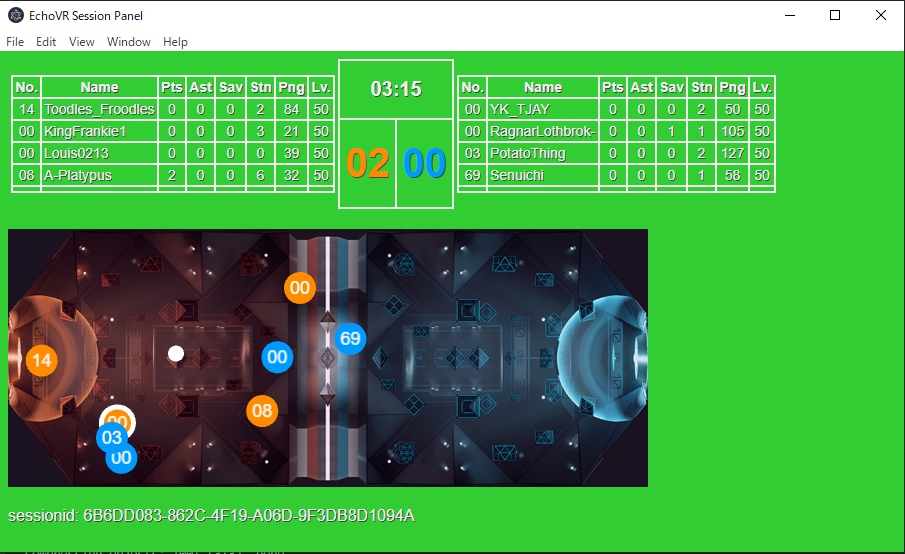
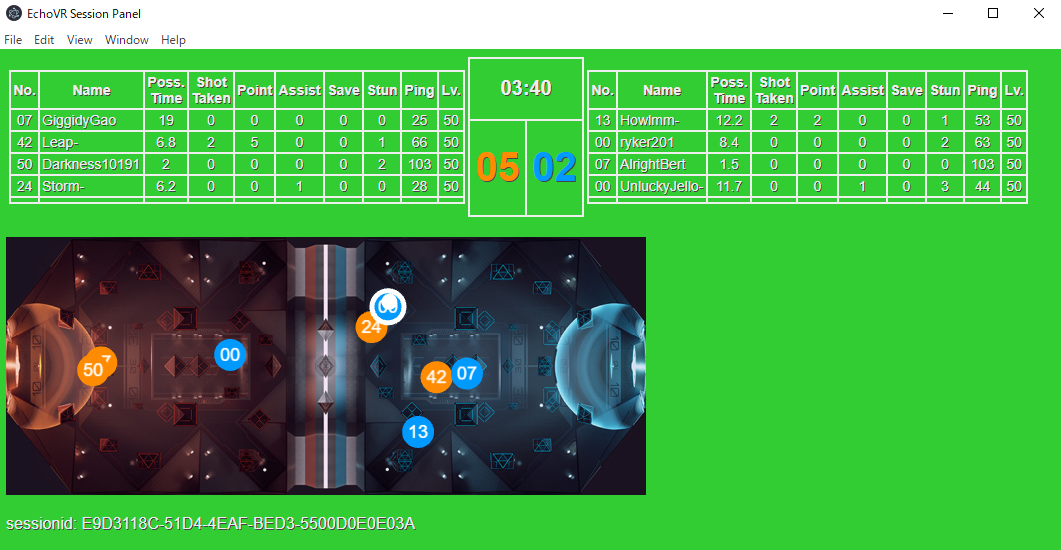
Add Possesion Time and Shot Taken.

diff --git a/preload.js b/preload.js
@@ -1,19 +1,17 @@
 const PIXI = require('pixi.js');
-const ARENA_WIDTH = 640;
-const ARENA_HEIGHT = 258;
+const ARENA_WIDTH = 640; // width of echo-arena.png
+const ARENA_HEIGHT = 258; // height of echo-arena.png
 const CENTER_X = ARENA_WIDTH / 2;
 const CENTER_Y = ARENA_HEIGHT / 2;
 
-const app = new PIXI.Application({ 
-  width: ARENA_WIDTH, 
+const app = new PIXI.Application({
+  width: ARENA_WIDTH,
   height: ARENA_HEIGHT,
   antialias: true,
-  transparent: false
- });
+  transparent: false,
+});
 
-app.loader
-.add('echo-arena.png')
-.load(setup);
+app.loader.add('echo-arena.png').load(setup);
 
 function setup() {
   let map = new PIXI.Sprite(app.loader.resources['echo-arena.png'].texture);
@@ -80,34 +78,44 @@ function renderScoreborad(sessionData) {
   replaceText('blue-points', zeroPaddingString(blue_points));
 
   // ORANGE TEAM STATS
+  const empty_player =  {
+    no: '',
+    name: '',
+    possession_time: '',
+    shots_taken: '',
+    point: '',
+    assists: '',
+    assists: '',
+    saves: '',
+    stuns: '',
+    ping: '',
+    level: '',
+  };
+
   const orange_team = sessionData.teams[1].players.map((p) => {
     return {
       no: zeroPaddingString(p.number),
       name: p.name,
+      possession_time: Math.round(p.stats.possession_time * 10) / 10,
+      shots_taken: p.stats.shots_taken,
       point: p.stats.points,
       assists: p.stats.assists,
       saves: p.stats.saves,
       stuns: p.stats.stuns,
       ping: p.ping,
       level: p.level,
+      team: 'ORANGE',
     };
   });
-  for (let i = 0; i < 5; i++) {
+
+  const MAX_PLAYERS = 5;
+  for (let i = 0; i < MAX_PLAYERS; i++) {
     let p = orange_team[i];
-    if (!p)
-      p = {
-        no: '',
-        name: '',
-        point: '',
-        assists: '',
-        assists: '',
-        saves: '',
-        stuns: '',
-        ping: '',
-        level: '',
-      };
+    if (!p) p = empty_player;
     document.getElementById('o-no-' + i).innerText = p.no;
     document.getElementById('o-nm-' + i).innerText = p.name;
+    document.getElementById('o-ps-' + i).innerText = p.possession_time;
+    document.getElementById('o-sh-' + i).innerText = p.shots_taken;
     document.getElementById('o-pt-' + i).innerText = p.point;
     document.getElementById('o-as-' + i).innerText = p.assists;
     document.getElementById('o-sv-' + i).innerText = p.saves;
@@ -121,30 +129,24 @@ function renderScoreborad(sessionData) {
     return {
       no: zeroPaddingString(p.number),
       name: p.name,
+      possession_time: Math.round(p.stats.possession_time * 10) / 10,
+      shots_taken: p.stats.shots_taken,
       point: p.stats.points,
       assists: p.stats.assists,
       saves: p.stats.saves,
       stuns: p.stats.stuns,
       ping: p.ping,
       level: p.level,
+      team: 'BLUE',
     };
   });
-  for (let i = 0; i < 5; i++) {
+  for (let i = 0; i < MAX_PLAYERS; i++) {
     let p = blue_team[i];
-    if (!p)
-      p = {
-        no: '',
-        name: '',
-        point: '',
-        assists: '',
-        assists: '',
-        saves: '',
-        stuns: '',
-        ping: '',
-        level: '',
-      };
+    if (!p) p = empty_player;
     document.getElementById('b-no-' + i).innerText = p.no;
     document.getElementById('b-nm-' + i).innerText = p.name;
+    document.getElementById('b-ps-' + i).innerText = p.possession_time;
+    document.getElementById('b-sh-' + i).innerText = p.shots_taken;
     document.getElementById('b-pt-' + i).innerText = p.point;
     document.getElementById('b-as-' + i).innerText = p.assists;
     document.getElementById('b-sv-' + i).innerText = p.saves;
@@ -169,16 +171,20 @@ function renderMap(sessionData) {
     return;
   }
 
-  graphicses.forEach((g) => {g.clear();});
+  graphicses.forEach((g) => {
+    g.clear();
+  });
   graphicses.clear = [];
-  texts.forEach((t) => {t.destroy();});
+  texts.forEach((t) => {
+    t.destroy();
+  });
   texts = [];
 
   // position : [x, y, z]
   // <- +z, A -x, V +x. -> -z
   // Areana z: -50 ~ + 50,  x -20 ~ +20
   const SCALE = 8; // scale of position to pixi
-  const TEXT_SIZE = 18; 
+  const TEXT_SIZE = 18;
   const TEXT_OFFSET = 1;
 
   // ORANGE TEAM
@@ -187,7 +193,7 @@ function renderMap(sessionData) {
       no: zeroPaddingString(p.number),
       possession: p.possession,
       position: p.head.position,
-      team: 'ORANGE'
+      team: 'ORANGE',
     };
   });
   // BLUE TEAM
@@ -196,19 +202,19 @@ function renderMap(sessionData) {
       no: zeroPaddingString(p.number),
       possession: p.possession,
       position: p.head.position,
-      team: 'BLUE'
+      team: 'BLUE',
     };
   });
 
   // TEAM PLAYERS
   const team_players = orange_team_players.concat(blue_team_players);
   for (const p of team_players) {
-    const p_x = CENTER_X  - (p.position[2] * SCALE);
-    const p_y = CENTER_Y  + (p.position[0] * SCALE);
+    const p_x = CENTER_X - p.position[2] * SCALE;
+    const p_y = CENTER_Y + p.position[0] * SCALE;
 
     const graphics = new PIXI.Graphics();
     if (p.possession) {
-      graphics.lineStyle(5,0xffffff);
+      graphics.lineStyle(5, 0xffffff);
     } else {
       graphics.lineStyle(0);
     }
@@ -218,29 +224,33 @@ function renderMap(sessionData) {
     } else {
       graphics.beginFill(0x009afe, 1);
     }
-    
+
     graphics.drawCircle(p_x, p_y, 16);
     graphics.endFill();
     app.stage.addChild(graphics);
     graphicses.push(graphics);
 
-    const text = new PIXI.Text(p.no, {fontFamily : 'Arial', fontSize: TEXT_SIZE, fill : 0xffffff, align : 'center'});
-    text.x = p_x - (TEXT_SIZE / 2) - TEXT_OFFSET;
-    text.y = p_y - (TEXT_SIZE / 2) - TEXT_OFFSET;
+    const text = new PIXI.Text(p.no, {
+      fontFamily: 'Arial',
+      fontSize: TEXT_SIZE,
+      fill: 0xffffff,
+      align: 'center',
+    });
+    text.x = p_x - TEXT_SIZE / 2 - TEXT_OFFSET;
+    text.y = p_y - TEXT_SIZE / 2 - TEXT_OFFSET;
     app.stage.addChild(text);
     texts.push(text);
   }
 
   // DISC
   const disc_position = sessionData.disc.position; // [x, y, z]
-  const disc_x = CENTER_X - (disc_position[2] * SCALE);
-  const disc_y = CENTER_Y + (disc_position[0] * SCALE);
+  const disc_x = CENTER_X - disc_position[2] * SCALE;
+  const disc_y = CENTER_Y + disc_position[0] * SCALE;
   const graphics = new PIXI.Graphics();
   graphics.lineStyle(0);
   graphics.beginFill(0xffffff, 1);
   graphics.drawCircle(disc_x, disc_y, 8);
   graphics.endFill();
-  app.stage.addChild(graphics); 
+  app.stage.addChild(graphics);
   graphicses.push(graphics);
-
 }

diff --git a/index.html b/index.html
@@ -17,16 +17,20 @@
                         <tr>
                             <th>No.</th>
                             <th>Name</th>
-                            <th>Pts</th>
-                            <th>Ast</th>
-                            <th>Sav</th>
-                            <th>Stn</th>
-                            <th>Png</th>
+                            <th>Poss.<br>Time</th>
+                            <th>Shot<br>Taken</th>
+                            <th>Point</th>
+                            <th>Assist</th>
+                            <th>Save</th>
+                            <th>Stun</th>
+                            <th>Ping</th>
                             <th>Lv.</th>
                         </tr>
                         <tr>
                             <td class="no" id="o-no-0"></td>
                             <td class="nm" id="o-nm-0"></td>
+                            <td class="ps" id="o-ps-0"></td>
+                            <td class="sh" id="o-sh-0"></td>
                             <td class="pt" id="o-pt-0"></td>
                             <td class="as" id="o-as-0"></td>
                             <td class="sv" id="o-sv-0"></td>
@@ -37,6 +41,8 @@
                         <tr>
                             <td class="no" id="o-no-1"></td>
                             <td class="nm" id="o-nm-1"></td>
+                            <td class="ps" id="o-ps-1"></td>
+                            <td class="sh" id="o-sh-1"></td>
                             <td class="pt" id="o-pt-1"></td>
                             <td class="as" id="o-as-1"></td>
                             <td class="sv" id="o-sv-1"></td>
@@ -47,6 +53,8 @@
                         <tr>
                             <td class="no" id="o-no-2"></td>
                             <td class="nm" id="o-nm-2"></td>
+                            <td class="ps" id="o-ps-2"></td>
+                            <td class="sh" id="o-sh-2"></td>
                             <td class="pt" id="o-pt-2"></td>
                             <td class="as" id="o-as-2"></td>
                             <td class="sv" id="o-sv-2"></td>
@@ -57,6 +65,8 @@
                         <tr>
                             <td class="no" id="o-no-3"></td>
                             <td class="nm" id="o-nm-3"></td>
+                            <td class="ps" id="o-ps-3"></td>
+                            <td class="sh" id="o-sh-3"></td>
                             <td class="pt" id="o-pt-3"></td>
                             <td class="as" id="o-as-3"></td>
                             <td class="sv" id="o-sv-3"></td>
@@ -67,6 +77,8 @@
                         <tr>
                             <td class="no" id="o-no-4"></td>
                             <td class="nm" id="o-nm-4"></td>
+                            <td class="ps" id="o-ps-4"></td>
+                            <td class="sh" id="o-sh-4"></td>
                             <td class="pt" id="o-pt-4"></td>
                             <td class="as" id="o-as-4"></td>
                             <td class="sv" id="o-sv-4"></td>
@@ -82,16 +94,20 @@
                         <tr>
                             <th>No.</th>
                             <th>Name</th>
-                            <th>Pts</th>
-                            <th>Ast</th>
-                            <th>Sav</th>
-                            <th>Stn</th>
-                            <th>Png</th>
+                            <th>Poss.<br>Time</th>
+                            <th>Shot<br>Taken</th>
+                            <th>Point</th>
+                            <th>Assist</th>
+                            <th>Save</th>
+                            <th>Stun</th>
+                            <th>Ping</th>
                             <th>Lv.</th>
                         </tr>
                         <tr>
                             <td class="no" id="b-no-0"></td>
                             <td class="nm" id="b-nm-0"></td>
+                            <td class="ps" id="b-ps-0"></td>
+                            <td class="sh" id="b-sh-0"></td>
                             <td class="pt" id="b-pt-0"></td>
                             <td class="as" id="b-as-0"></td>
                             <td class="sv" id="b-sv-0"></td>
@@ -102,6 +118,8 @@
                         <tr>
                             <td class="no" id="b-no-1"></td>
                             <td class="nm" id="b-nm-1"></td>
+                            <td class="ps" id="b-ps-1"></td>
+                            <td class="sh" id="b-sh-1"></td>
                             <td class="pt" id="b-pt-1"></td>
                             <td class="as" id="b-as-1"></td>
                             <td class="sv" id="b-sv-1"></td>
@@ -112,6 +130,8 @@
                         <tr>
                             <td class="no" id="b-no-2"></td>
                             <td class="nm" id="b-nm-2"></td>
+                            <td class="ps" id="b-ps-2"></td>
+                            <td class="sh" id="b-sh-2"></td>
                             <td class="pt" id="b-pt-2"></td>
                             <td class="as" id="b-as-2"></td>
                             <td class="sv" id="b-sv-2"></td>
@@ -122,6 +142,8 @@
                         <tr>
                             <td class="no" id="b-no-3"></td>
                             <td class="nm" id="b-nm-3"></td>
+                            <td class="ps" id="b-ps-3"></td>
+                            <td class="sh" id="b-sh-3"></td>
                             <td class="pt" id="b-pt-3"></td>
                             <td class="as" id="b-as-3"></td>
                             <td class="sv" id="b-sv-3"></td>
@@ -132,6 +154,8 @@
                         <tr>
                             <td class="no" id="b-no-4"></td>
                             <td class="nm" id="b-nm-4"></td>
+                            <td class="ps" id="b-ps-4"></td>
+                            <td class="sh" id="b-sh-4"></td>
                             <td class="pt" id="b-pt-4"></td>
                             <td class="as" id="b-as-4"></td>
                             <td class="sv" id="b-sv-4"></td>

diff --git a/main.js b/main.js
@@ -3,7 +3,7 @@ const path = require('path');
 
 function createWindow() {
   const win = new BrowserWindow({
-    width: 920,
+    width: 1080,
     height: 560,
     webPreferences: {
       preload: path.join(__dirname, 'preload.js'),

diff --git a/style.css b/style.css
@@ -13,7 +13,7 @@ table.score {
     border-collapse: collapse;
     border-spacing: 0;
     table-layout: fixed;
-    height: 150px;
+    height: 160px;
 }
 
 table.score td {

diff --git a/README.md b/README.md
@@ -3,6 +3,10 @@ This tool is for PC edition EchoVR. By launching this tool, you can view the sco
 
 ![sample.png](./sample.png)
 
+# Usage
+Enable API in PC edition EchoVR.
+Execute `echovr-session-panel-X.X.X Setup.exe` from [Releases tab](https://github.com/sifue/echovr-session-panel/releases).
+
 # API Document
 Enable API in EchoVR.
 See [https://github.com/Ajedi32/echovr_api_docs#sessionid](https://github.com/Ajedi32/echovr_api_docs#sessionid).
